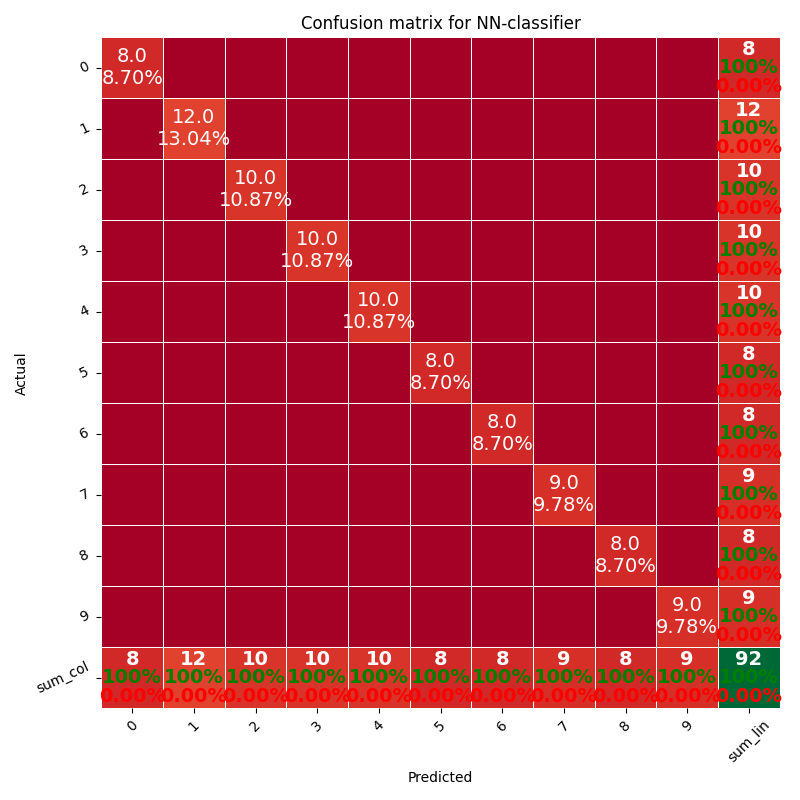
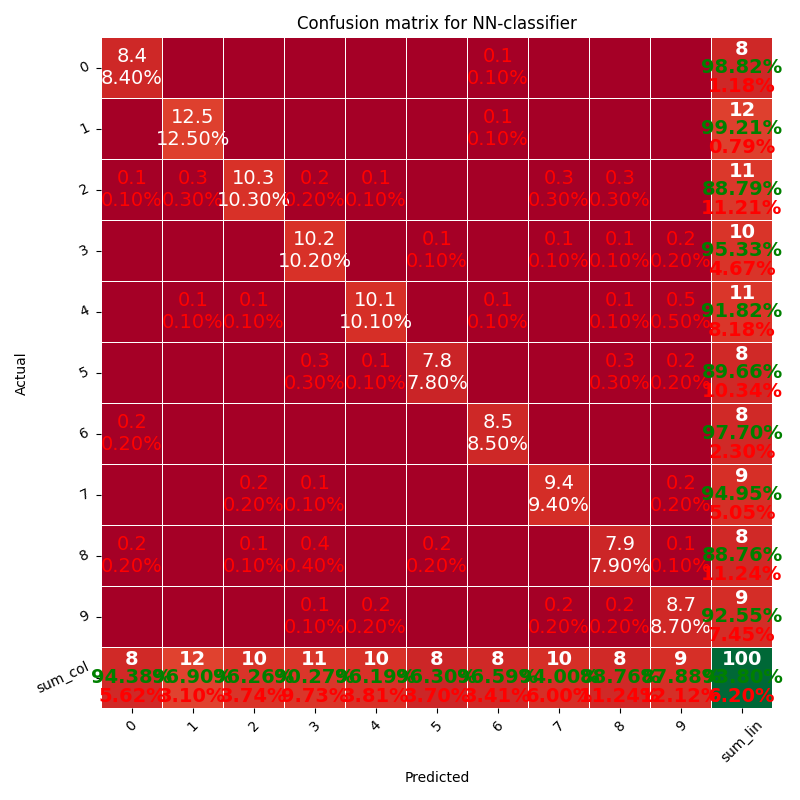
jf

diff --git a/DigitsClassificationTask1.py b/DigitsClassificationTask1.py
@@ -123,7 +123,7 @@ def test(train_data, train_labels, test_data, test_labels, test_num=1000):
     print("Total correct:\t", total_correct)
 
     error_rate = np.round(total_false / total_classifications, 2) * 100 # error rate in percentage
-    confusion_matrix = np.round(np.array(confusion_matrix) / test_num, 2) * 100 # confusion matrix in percentage
+    confusion_matrix = np.round(np.array(confusion_matrix) / test_num, 4) * 100 # confusion matrix in percentage
 
     return error_rate, confusion_matrix, indexes_false_classified, indexes_correct_classified
 
